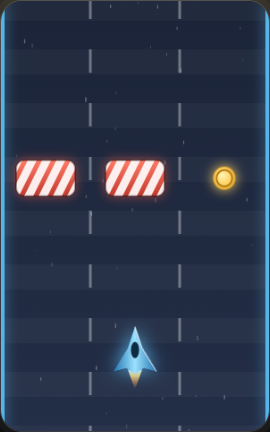
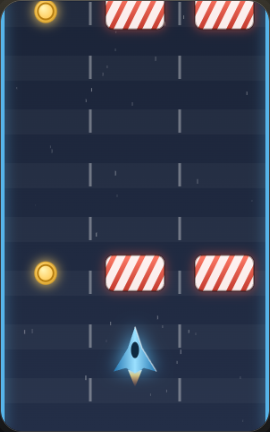
Deploy Bondwork 1.2.2

diff --git a/bondwork/style.css b/bondwork/style.css
@@ -182,3 +182,12 @@ button.big:hover:not(:disabled),#tabs button.on:hover{background:linear-gradient
 .item button.can{background:linear-gradient(180deg,#2f8c5b,#1f6c44) #2a7f52}
 .item button.can:hover:not(:disabled){background:linear-gradient(180deg,#37a066,#237a4e) #2f8f5c}
 button{transition:transform .1s,border-color .15s,box-shadow .15s}
+
+#btnHelp{min-width:44px;padding:4px 0;font-size:18px;font-weight:800}
+#top{flex-wrap:nowrap}
+#top .stat{min-width:0}
+#top{gap:6px;padding:6px 8px}
+#top .stat{flex:none}
+#top .stat b{font-size:18px}
+#top .icon{padding:4px 8px;font-size:12px}
+#btnHelp{padding:4px 0;font-size:18px}

diff --git a/bondwork/index.html b/bondwork/index.html
@@ -15,7 +15,7 @@
     <div class="stat"><span class="lbl">per sec</span><b id="rate">0</b></div>
     <div class="stat" id="ppStat"><span class="lbl">Phase Pts</span><b id="pp">0</b></div>
     <div class="spacer"></div>
-    <button id="btnHelp" class="icon" aria-label="How to play">? Help</button>
+    <button id="btnHelp" class="icon" aria-label="How to play" title="How to play">?</button>
     <button id="btnPause" class="icon" aria-label="Pause">Pause</button>
     <button id="btnMute" class="icon" aria-label="Toggle sound">Sound</button>
   </header>

diff --git a/bondwork/data.js b/bondwork/data.js
@@ -1,5 +1,5 @@
 // Static game data. All names, facts and numbers are original to this project.
-export const VERSION = '1.2.1';
+export const VERSION = '1.2.2';
 export const SAVE_VERSION = 1;
 
 export const ATOMS = ['H', 'O', 'C', 'N'];
